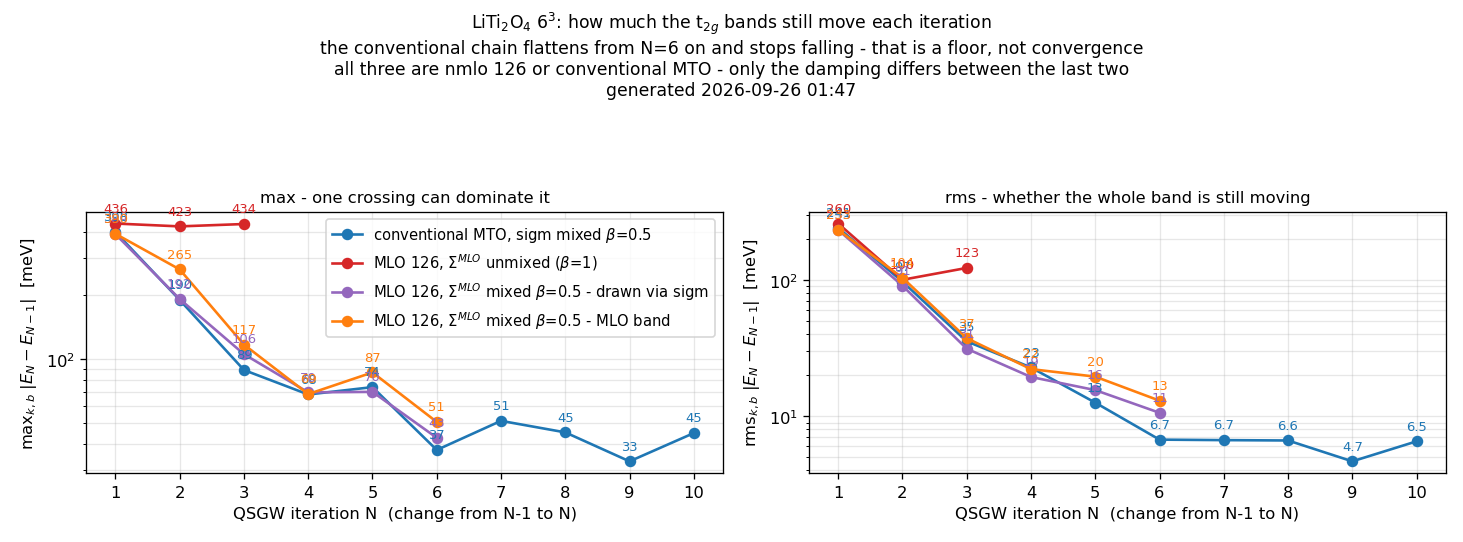
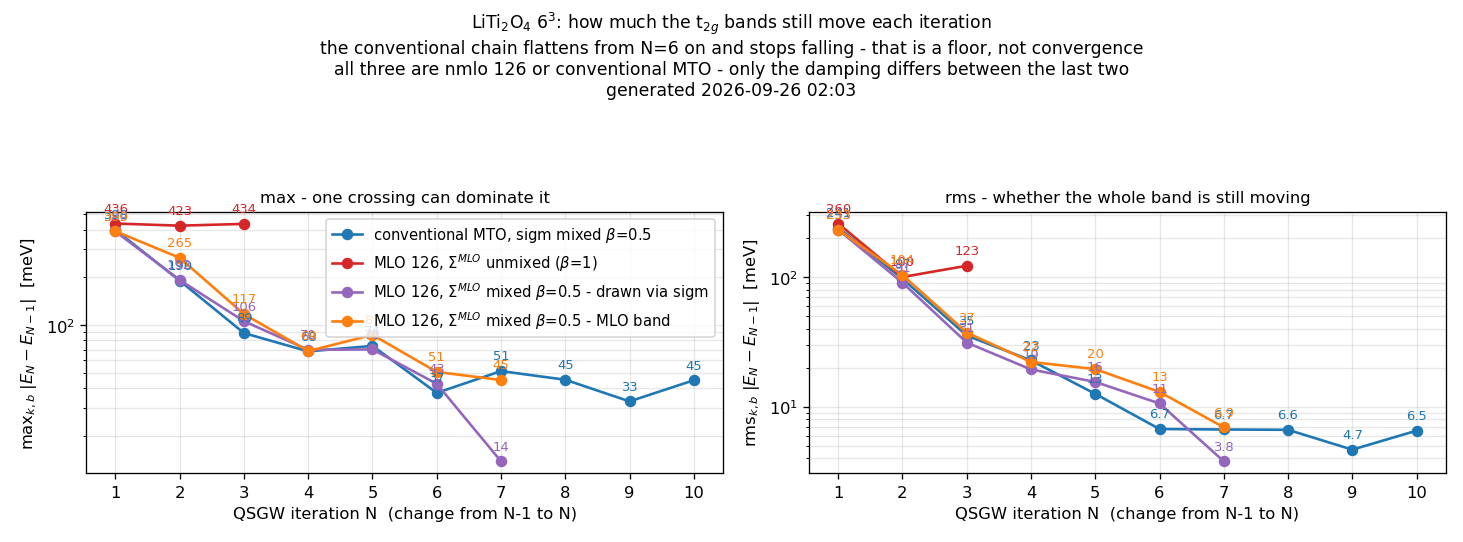
kBT_research: v9 iteration 7 -- clean; MLO band rms 6.9, at the conventional floor
rms change: MLO band 6.9, sigm drawing 3.8, conventional 6.7 meV.

diff --git a/Samples/kBT/kBT_research.md b/Samples/kBT/kBT_research.md
@@ -15,7 +15,7 @@
 
 ## 最新の図（走行中のチェーンを映す。ここだけ上書きされる）
 
-**最終更新 2026-09-26 01:48**（v9 iter 6）／ 追っているのは **`liti_mlo_v9`**（nmlo 126、**$\Sigma^{\rm MLO}$ を β=0.5 で混合**、10 反復投入、00:00 開始、混合ファイル無しを検証したクリーンスタート）
+**最終更新 2026-09-26 02:05**（v9 iter 7）／ 追っているのは **`liti_mlo_v9`**（nmlo 126、**$\Sigma^{\rm MLO}$ を β=0.5 で混合**、10 反復投入、00:00 開始、混合ファイル無しを検証したクリーンスタート）
 
 | 列 | 何を描いたか | 描き方 |
 |---|---|---|
@@ -49,10 +49,10 @@
 | 従来 MTO rms | 241 | 97 | 35 | 23 | 13 | 6.7 | 6.7 | 6.6 | 4.7 | 6.5 |
 | MLO 126 無混合 max | 436 | 423 | 434 | | | | | | | |
 | MLO 126 無混合 rms | 260 | 100 | 123 | | | | | | | |
-| **MLO 126 β=0.5 max**（`sigm` 描画）| 389 | 192 | 106 | 70 | 70 | 43 | | | | |
-| **MLO 126 β=0.5 rms**（`sigm` 描画）| 233 | 91 | 31 | 19 | 16 | 11 | | | | |
-| **MLO 126 β=0.5 max（MLO バンド）** | — | 265 | 117 | 69 | 87 | 51 | | | | |
-| **MLO 126 β=0.5 rms（MLO バンド）** | — | 104 | 37 | 22 | 20 | 13 | | | | |
+| **MLO 126 β=0.5 max**（`sigm` 描画）| 389 | 192 | 106 | 70 | 70 | 43 | 14 | | |
+| **MLO 126 β=0.5 rms**（`sigm` 描画）| 233 | 91 | 31 | 19 | 16 | 11 | 3.8 | | |
+| **MLO 126 β=0.5 max（MLO バンド）** | — | 265 | 117 | 69 | 87 | 51 | 45 | | |
+| **MLO 126 β=0.5 rms（MLO バンド）** | — | 104 | 37 | 22 | 20 | 13 | 6.9 | | |
 
 （参考・凍結）nmlo 76 無混合: max 430/187/347/246/132/52/18/45、rms 258/59/154/90/45/18/5.2/18
 
